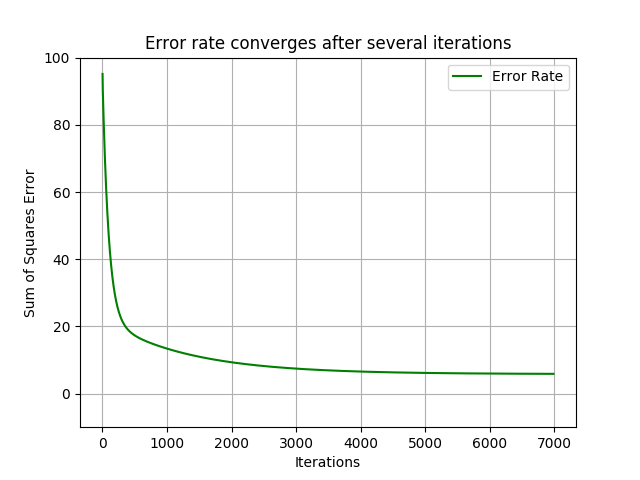
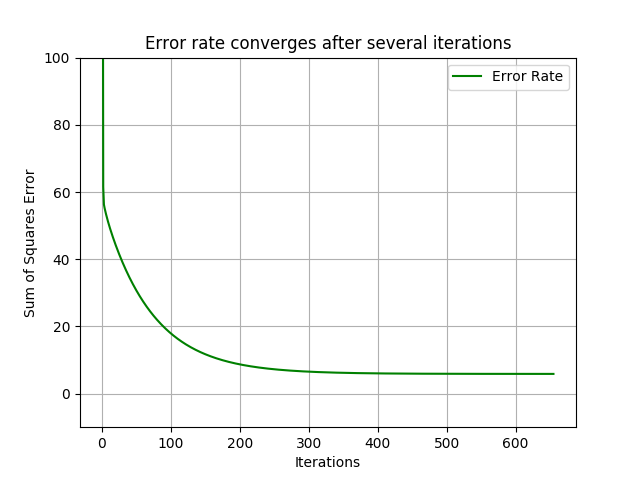
Convergence check and bias

diff --git a/Lab1/delta_rule.py b/Lab1/delta_rule.py
@@ -8,31 +8,20 @@ sigmaA = 0.5
 sigmaB = 0.5
 eta = 0.0001
 
-def generateIOWMatrix(useBias=True):
-    return
-
 
 def generateInputMatrix(useBias=True):
     np.random.seed(100)
     classA1 = np.array(np.random.normal(2, sigmaA, n) * sigmaA + mA[0])
-    classA2 = np.array(np.random.normal(3, sigmaA, n) * sigmaA + mA[1])
-    classB1 = np.array(np.random.normal(7, sigmaB, n) * sigmaB + mB[0])
-    classB2 = np.array(np.random.normal(8, sigmaB, n) * sigmaB + mB[1])
+    classA2 = np.array(np.random.normal(2, sigmaA, n) * sigmaA + mA[1])
+    classB1 = np.array(np.random.normal(2, sigmaB, n) * sigmaB + mB[0])
+    classB2 = np.array(np.random.normal(2, sigmaB, n) * sigmaB + mB[1])
 
-    # classA1 = np.arange(1, (n + 1), 1)
-    # classA2 = np.arange(1, (n + 1), 1)
-    # classB1 = np.arange(-(n + 1), -1, 1)
-    # classB2 = np.arange(-(n + 1), -1, 1)
+    if useBias:
+        classX = np.array([np.concatenate((classA1, classB1)), np.concatenate((classA2, classB2)), np.array([1] * (n * 2))])
+    else:
+        classX = np.array([np.concatenate((classA1, classB1)), np.concatenate((classA2, classB2))])
 
-    # classA1 = np.array([0])
-    # classA2 = np.array([1])
-    # classB1= np.array([0])
-    # classB2 = np.array([2])
-
-    classX = np.array([np.concatenate((classA1, classB1)), np.concatenate((classA2, classB2)), np.array([1] * (n * 2))])
-    classW = np.random.normal(0, 0.01, classX.shape[0])
-    classAT = np.array([1] * n)  # Random ClassA1,ClassA2 -> Eps 1 eller -1
-    classBT = np.array([0] * n)  # Random
+    classW = np.random.normal(0, 5, classX.shape[0])
     classT = np.concatenate(([1] * n, [-1] * n))
 
     plot(classA1, classA2, classB1, classB2)
@@ -62,7 +51,7 @@ def converge_check(old, new, percentage=0.00001):
 
 
 def sum_square(X, W, T):
-    return np.sum((T - W @ X) ** 2)/2
+    return np.sum((T - W @ X) ** 2) / 2
 
 
 def sequential_delta_learning(X, T, W):
@@ -73,14 +62,12 @@ def sequential_delta_learning(X, T, W):
         i += 1
         old_W = W
         old_error = sum_square(X, old_W, T)
-        print(old_error)
         for j, x in enumerate(X.T):
             W += eta * ((T[j] - W @ x) * x)
         error = sum_square(X, W, T)
         error_values.append(error)
-        iterations.append(i*n*2)
+        iterations.append(i * n * 2)
         if converge_check(old_error, error):
-            print(W)
             return W, error_values, iterations
 
 
@@ -96,12 +83,11 @@ def delta_learning(X, T, W):
         changeW = delta(old_W, X, T)
         W = old_W + changeW
         old_error = sum_square(X, old_W, T)
-        print(old_error)
         error = sum_square(X, W, T)
         error_values.append(error)
+        print(error)
         iterations.append(i)
         if converge_check(old_error, error):
-            print(W)
             return W, error_values, iterations
 
 
@@ -116,13 +102,19 @@ def plotIters(errors, iters):
     plt.show()
 
 
-def plotLine(W):
+def plotLine(W, bias=True):
     plt.ylim(top=50, bottom=-10)
-    x = np.linspace(-10, 10, 200)
-    b = W[2]
-    k = -(b / W[1]) / (b / W[0])
-    m = -b / W[1]
-    y = k * x + m
+    y = []
+    x = np.linspace(-100, 100, 200)
+    if bias:
+        b = W[2]
+        k = -(b / W[1]) / (b / W[0])
+        m = -b / W[1]
+        y = k * x + m
+    else:
+        k = (W[0])/W[1]
+        y = k * x
+
     plt.plot(x, y, color='green', label="Decision Boundary")
     plt.legend(loc="upper right")
     plt.xlabel("X-feature")
